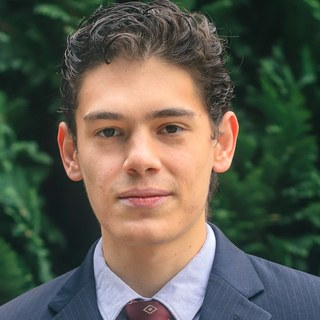
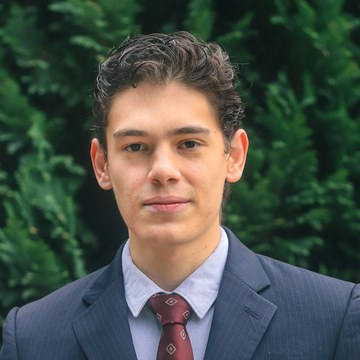
Restructure: share about building merged with socials, waitlist consolidated

diff --git a/app/page.tsx b/app/page.tsx
@@ -18,7 +18,7 @@ const LINKS = {
   linkedin: "https://linkedin.com/in/gcpeysack",
   tiktok: "#",
   instagram: "#",
-  substack: "#",
+  substack: "https://substack.com/@giancarlopeysack351293",
   sayHi: "mailto:gc.peysack@gmail.com?subject=Hi",
 };
 
@@ -31,7 +31,7 @@ export default function Home() {
           style={{
             fontSize: "clamp(20px, 5.6vw, 26px)",
             lineHeight: 1.5,
-            fontWeight: 450,
+            fontWeight: 400,
           }}
         >
           {/* Greeting + avatar */}
@@ -49,7 +49,7 @@ export default function Home() {
             </span>
           </p>
 
-          {/* Self-definition + live projects on the same line */}
+          {/* Projects on one line, writing on its own line */}
           <p className="mt-7 sm:mt-6">
             I make B2B software and consumer apps{" "}
             <span className="tile-row align-middle ml-2">
@@ -72,45 +72,9 @@ export default function Home() {
               />
             </span>
           </p>
-
-          {/* Waitlist */}
+          {/* Share about building (all the channels — socials + substack) */}
           <p className="mt-7 sm:mt-6">
-            Join the waitlist{" "}
-            <span className="tile-row align-middle ml-2">
-              <BrandTile
-                href={LINKS.waitlistLinkedIn}
-                label="LinkedIn weekly tool — join waitlist"
-                tooltip="LinkedIn weekly tool"
-                bg="#0A66C2"
-                fg="#FFFFFF"
-              >
-                <span
-                  className="text-white font-extrabold leading-none"
-                  style={{ fontSize: "18px", letterSpacing: "-0.04em" }}
-                >
-                  in
-                </span>
-              </BrandTile>
-              <BrandTile
-                href={LINKS.waitlistContent}
-                label="Content agent tool — join waitlist"
-                tooltip="Content agent tool"
-                bg="#111111"
-                fg="#FFFFFF"
-              >
-                <span
-                  className="text-white leading-none"
-                  style={{ fontSize: "22px" }}
-                >
-                  ✦
-                </span>
-              </BrandTile>
-            </span>
-          </p>
-
-          {/* Socials */}
-          <p className="mt-7 sm:mt-6">
-            I also post on{" "}
+            and share about building{" "}
             <span className="tile-row stack align-middle ml-2">
               <BrandTile
                 href={LINKS.linkedin}
@@ -139,10 +103,45 @@ export default function Home() {
               <BrandTile
                 href={LINKS.substack}
                 label="Substack"
-                tooltip="Substack (soon)"
+                tooltip="@giancarlopeysack"
                 bg="#FF6719"
               >
                 <SubstackIcon />
+              </BrandTile>
+            </span>
+          </p>
+
+          {/* Launching soon + waitlist (merged) */}
+          <p className="mt-7 sm:mt-6">
+            Launching soon, join the waitlist{" "}
+            <span className="tile-row align-middle ml-2">
+              <BrandTile
+                href={LINKS.waitlistLinkedIn}
+                label="LinkedIn weekly tool, join waitlist"
+                tooltip="LinkedIn weekly tool"
+                bg="#0A66C2"
+                fg="#FFFFFF"
+              >
+                <span
+                  className="text-white font-extrabold leading-none"
+                  style={{ fontSize: "18px", letterSpacing: "-0.04em" }}
+                >
+                  in
+                </span>
+              </BrandTile>
+              <BrandTile
+                href={LINKS.waitlistContent}
+                label="Content agent tool, join waitlist"
+                tooltip="Content agent tool"
+                bg="#111111"
+                fg="#FFFFFF"
+              >
+                <span
+                  className="text-white leading-none"
+                  style={{ fontSize: "22px" }}
+                >
+                  ✦
+                </span>
               </BrandTile>
             </span>
           </p>
